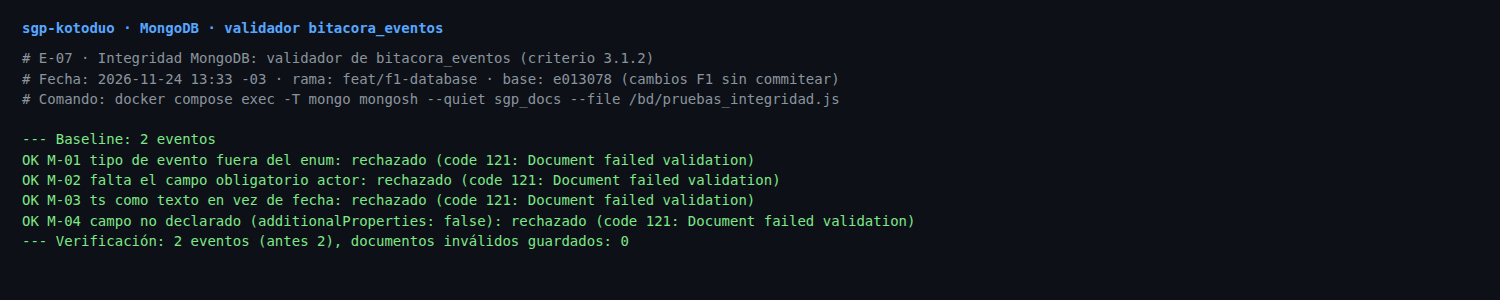
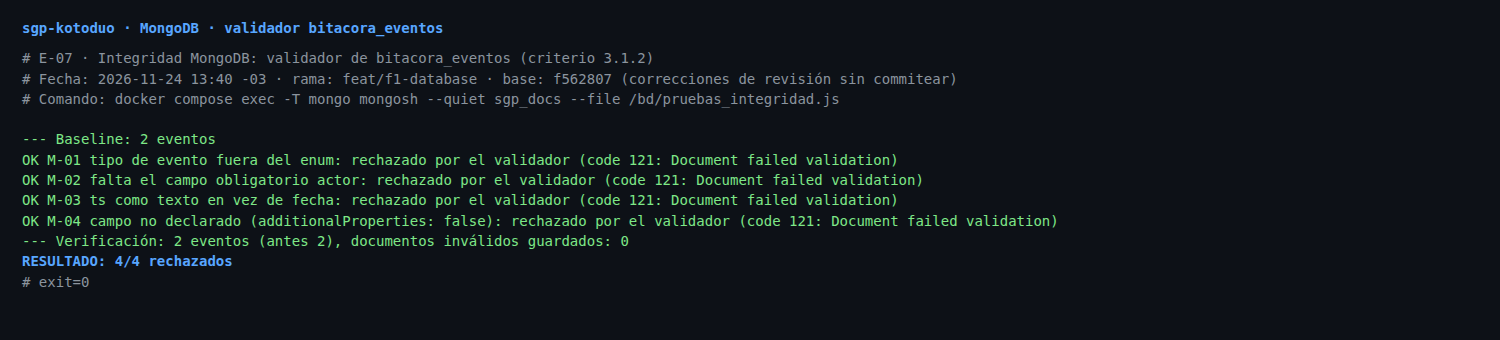
fix(db): address F1 review findings
- integrity checks assert the expected SQLSTATE / Mongo code 121, roll back
  every attempt, compare against the baseline and exit non-zero on failure
- volume cleanup only matches generated OT-2025-NNNNN codes with VOL- titles
- seeded admin must change the public demo password on first login (D12);
  POST /api/v1/auth/cambiar-clave added to the F2 scope
- regenerate evidence E-06 and E-07

Refs #12

diff --git a/db/mongo/pruebas_integridad.js b/db/mongo/pruebas_integridad.js
@@ -3,7 +3,18 @@
 // Invalid audit events must be rejected by the bitacora_eventos validator.
 //
 //   docker compose exec -T mongo mongosh --quiet sgp_docs --file /bd/pruebas_integridad.js
+//
+// Only a validation error (code 121, DocumentValidationFailure) counts as a
+// rejection. Any other outcome (accepted, duplicate key, other error) is a
+// failure. Accepted invalid documents are removed at the end, so the script
+// leaves no data behind, and the process exits with code 1 if any check failed.
 // =====================================================================
+const CODIGO_VALIDACION = 121;
+const PREFIJO = /^evt-9000/;
+
+const previos = db.bitacora_eventos.deleteMany({ _id: PREFIJO }).deletedCount;
+if (previos > 0) print(`AVISO: se eliminaron ${previos} documento(s) inválido(s) de una ejecución anterior`);
+
 const antes = db.bitacora_eventos.countDocuments();
 print(`--- Baseline: ${antes} eventos`);
 
@@ -27,15 +38,26 @@ const intentos = [
   }],
 ];
 
+let fallas = 0;
 for (const [nombre, doc] of intentos) {
   try {
     db.bitacora_eventos.insertOne(doc);
+    fallas++;
     print(`FALLA ${nombre}: documento aceptado`);
   } catch (e) {
-    print(`OK ${nombre}: rechazado (code ${e.code}: ${e.message})`);
+    if (e.code === CODIGO_VALIDACION) {
+      print(`OK ${nombre}: rechazado por el validador (code ${e.code}: ${e.message})`);
+    } else {
+      fallas++;
+      print(`FALLA ${nombre}: error inesperado (code ${e.code}: ${e.message})`);
+    }
   }
 }
 
+const guardados = db.bitacora_eventos.countDocuments({ _id: PREFIJO });
 const despues = db.bitacora_eventos.countDocuments();
-const invalidos = db.bitacora_eventos.countDocuments({ _id: /^evt-9000/ });
-print(`--- Verificación: ${despues} eventos (antes ${antes}), documentos inválidos guardados: ${invalidos}`);
+print(`--- Verificación: ${despues} eventos (antes ${antes}), documentos inválidos guardados: ${guardados}`);
+if (guardados > 0) db.bitacora_eventos.deleteMany({ _id: PREFIJO });
+
+print(fallas === 0 ? `RESULTADO: ${intentos.length}/${intentos.length} rechazados` : `RESULTADO: ${fallas} falla(s)`);
+if (fallas > 0) quit(1);

diff --git a/odd/tasks/sgp-mvp.md b/odd/tasks/sgp-mvp.md
@@ -9,7 +9,7 @@ The full specification is `docs/roadmap.md`. Numbered references:
 
 - S1 — F0: "Crear el repositorio `sgp-kotoduo` como monorepo: `api/`, `web/`, `db/`, `docs/`, `evidencias/`." + IDs, decisions D1–D4, CI "lint + typecheck + tests unitarios", "`.env.example` con valores ficticios. Ningún secreto real en el repositorio."
 - S2 — F1: "`docker compose up` levanta ambas bases con esquema y seed." Seed: "5 usuarios (uno por rol), 2 plantillas, insumos con stock y mínimo, `DEMO-01` como OT de ejemplo." Volume script "5.000 OT y 30.000 etapas".
-- S3 — F2: "login funcional y rutas protegidas. Una tabla de perfiles × operaciones en `docs/seguridad.md`." (CP-07, CP-08, CP-09, CP-24, CP-27, CP-28, CP-29)
+- S3 — F2: "login funcional y rutas protegidas. Una tabla de perfiles × operaciones en `docs/seguridad.md`." (CP-07, CP-08, CP-09, CP-24, CP-27, CP-28, CP-29) + D12: "Forzar cambio a admin" → `POST /api/v1/auth/cambiar-clave`; while `debe_cambiar_clave` is true, login only allows that endpoint.
 - S4 — F3: "flujos 2 y 3 operativos vía API, con tests unitarios y de integración en verde." (CP-01..CP-04, CP-06, CP-11..CP-13, CP-18, CP-19)
 - S5 — F4: "flujo 4 operativo vía API." (CP-05, CP-14, CP-15)
 - S6 — F5: "los 4 flujos completos desde el navegador, con el dato recuperado tras guardarlo."
@@ -39,4 +39,6 @@ Remote items outside the agent's reach (need the user): GitHub repo + push, GitH
 - L4: public repo github.com/CarlosM01/sgp-kotoduo created and pushed; labels, milestones (v0.9, v1.0), issues #1–#16 (10 HU + 6 phases) and Project #6 "SGP-Kotoduo MVP" linked. F0 issue #11 closed with commit evidence. CI did not start: GitHub account locked by a billing issue (user must resolve in billing settings); local lint/typecheck/tests pass.
 - L5 (2026-11-24): "Cómo vamos con el roadmap, qué falta? Necesito que vayas sacando capturas de pantallas para evidencias cuando sea necesario." → E-01..E-05 captured (headless Chrome, public pages; Claude in Chrome not connected, Project #6 is private and was not captured). `.gitignore` now keeps `evidencias/**/*.log`.
 - L6 (2026-11-24): "Sí, empieza F1". Catalogs and 2 templates already come from 01_ddl.sql; added 02_seed.sql (users with Argon2id hashes generated with @node-rs/argon2 in a scratch dir, DEMO-01 = OT-2026-0001 because ck_ot_codigo rejects "DEMO-01", D8–D11), mongo_seed.js, volumen.sql, pruebas_integridad.sql/.js. Mongo `ix_actor_ts` covers the "fecha y usuario" index. Evidence E-06..E-08.
+- L7 (2026-11-24): "Sí, sincroniza" → `gentle-ai sync` run; review of the F1 commit (lenses risk + reliability, consent granted) approved and acknowledged, lineage review-26feb1e2b7f1e4a1. 4 non-blocking WARNINGs: R1-001 admin demo account without forced password change; R1-002 volume DELETE matches any `VOL-%` title; R3 Mongo integrity script treats any error as rejection; R3 PG integrity script has no assertion/rollback and always exits 0.
+- L8 (2026-11-24): "Sí, corrígelas" + admin choice "Forzar cambio a admin". R1-002: volume DELETE/count scoped to codigo `OT-2025-NNNNN` AND title `VOL-` (hand-made `VOL-` order kept). R3 Mongo: only code 121 counts, accepted docs removed, exit 1 on failure. R3 PG: each attempt in BEGIN/ROLLBACK, SQLSTATE asserted, final state vs baseline, exit 3 on failure. Failure paths proven on scratch DBs (NOT NULL dropped → FALLA I-01, exit 3, nothing kept; no validator → 4 FALLA, exit 1, nothing kept). R1-001: D12, admin `debe_cambiar_clave = TRUE`, `POST /auth/cambiar-clave` added to F2/§6. E-06/E-07 regenerated.
 - Next: T2 (F2) — API layers, zod, auth with Argon2id (same params as the seed), RBAC, hardening, Mongo audit log. Pending user: push branch, close issue #12, fix GitHub billing lock for CI.

diff --git a/docs/decisiones.md b/docs/decisiones.md
@@ -12,4 +12,5 @@
 | D8 | Marca `DEMO-xx` | Va en el título de la OT (`DEMO-01 · …`); el código sigue siendo `OT-2026-0001`. | `ck_ot_codigo` exige `OT-AAAA-NNNN`; la prueba I-04 lo demuestra. | — |
 | D9 | Seed de demo | UUID fijos para usuarios y `DEMO-01`, iguales a los de los documentos de ejemplo de MongoDB. Clave común de demo `kotoduo demo local 2026` (Argon2id, parámetros mínimos OWASP). | Historial coherente entre PostgreSQL y MongoDB; credenciales de prueba sin valor fuera del entorno local. | — |
 | D10 | Alerta reproducible | El seed deja la tela dry-fit en 70 m con un movimiento `AJUSTE`; terminar "Corte" en `DEMO-01` consume 36 m y abre la alerta automática (34 ≤ 40). | Paso 4 del guion de demo determinista, sin tocar el DDL de ES2. | — |
-| D11 | Datos de volumen | Script manual `volumen.sql`, determinista, con prefijo `VOL-` y sin responsable asignado. | No contamina "Mi Trabajo" ni la demo; se borra con un `DELETE`. | — |
+| D11 | Datos de volumen | Script manual `volumen.sql`, determinista, con prefijo `VOL-` y sin responsable asignado. | No contamina "Mi Trabajo" ni la demo; se borra con un `DELETE` acotado a código `OT-2025-NNNNN` y título `VOL-`. | — |
+| D12 | Clave del `admin` de demo | El `admin` del seed parte con `debe_cambiar_clave = TRUE`; F2 agrega `POST /api/v1/auth/cambiar-clave` y F5 su pantalla. Mientras no cambie la clave, el login solo permite ese endpoint. | La clave de demo es pública en el repo; la cuenta privilegiada no puede quedar usable con ella (hallazgo R1-001 de la revisión de F1). Las demás cuentas de demo mantienen la clave pública para la presentación. | Declarar el riesgo como aceptado y dejar el `admin` sin cambio forzado. |

diff --git a/docs/roadmap.md b/docs/roadmap.md
@@ -139,6 +139,7 @@ Se construye en este orden. Lo que no esté terminado al congelar el código pas
 - [ ] Validación de entrada con esquemas (zod), por ejemplo `NuevaOrdenSchema`, que rechace campos extra.
 - [ ] Manejo central de errores: respuestas uniformes, sin trazas internas hacia el cliente.
 - [ ] Autenticación: hash de contraseñas con argon2 o bcrypt, política de contraseñas (CP-07), JWT y refresh según D2.
+- [ ] Cambio de clave obligatorio: si `debe_cambiar_clave` es verdadero, el login solo permite `POST /auth/cambiar-clave` (aplica CP-07). El `admin` del seed parte así (D12).
 - [ ] Autorización RBAC **en el servidor**: middleware de permisos con `PERMISOS_POR_ROL` (CP-08) y control de propiedad de la etapa contra IDOR (CP-27).
 - [ ] Endurecimiento: límite de intentos y bloqueo de login (CP-29), `helmet`, CORS restringido, consultas parametrizadas (CP-24).
 - [ ] Bitácora: cada acción relevante escribe un evento en Mongo (HU-12).
@@ -268,6 +269,7 @@ Se construye en este orden. Lo que no esté terminado al congelar el código pas
 | POST | `/api/v1/auth/login` | Público | CP-07, CP-09, CP-29 |
 | POST | `/api/v1/auth/refresh` | Sesión (D2) | CP-26, CP-30 |
 | POST | `/api/v1/auth/logout` | Sesión | — |
+| POST | `/api/v1/auth/cambiar-clave` | Sesión (incluida la que debe cambiar clave) | CP-07 |
 | GET | `/api/v1/plantillas` | Vendedor, Encargada | — |
 | POST | `/api/v1/ordenes` | Vendedor, Encargada | CP-06, CP-11 |
 | GET | `/api/v1/ordenes`, `/ordenes/{id}` | Vendedor, Encargada, Admin | CP-24 |

diff --git a/README.md b/README.md
@@ -41,6 +41,6 @@ docker compose exec -T postgres sh -c 'psql -U sgp -d sgp_kotoduo -X -f /sgp/pru
 docker compose exec -T mongo mongosh --quiet sgp_docs --file /bd/pruebas_integridad.js
 ```
 
-Para quitar el volumen antes de la demo: `DELETE FROM sgp.orden_trabajo WHERE titulo LIKE 'VOL-%';`
+Para quitar el volumen antes de la demo: `DELETE FROM sgp.orden_trabajo WHERE codigo ~ '^OT-2025-[0-9]{5}$' AND titulo LIKE 'VOL-%';`
 
-**Usuarios de demo** (datos de prueba locales): `admin`, `encargada`, `vendedor`, `disenador`, `operario`. Todos con la frase de acceso `kotoduo demo local 2026`. La OT de ejemplo es `OT-2026-0001`, con el título `DEMO-01 · …`.
+**Usuarios de demo** (datos de prueba locales): `admin`, `encargada`, `vendedor`, `disenador`, `operario`. Todos con la frase de acceso `kotoduo demo local 2026`. El `admin` debe cambiarla en su primer inicio de sesión (D12). La OT de ejemplo es `OT-2026-0001`, con el título `DEMO-01 · …`.
